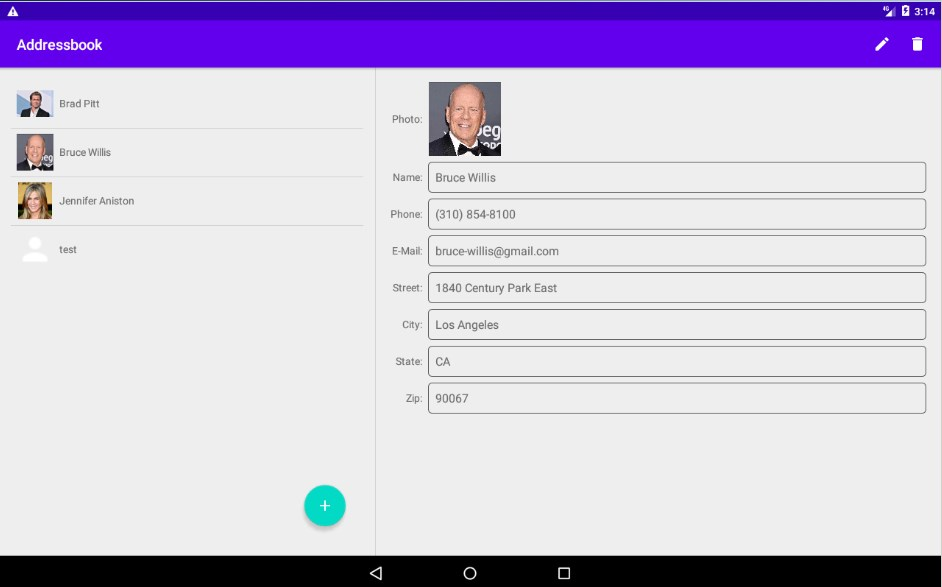
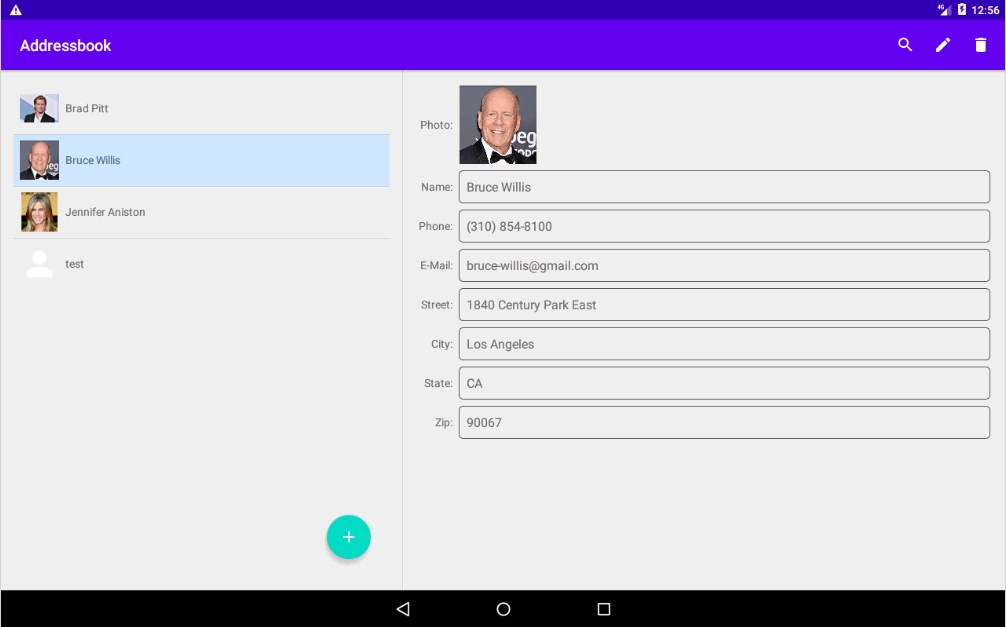
Поиск контакта на планшете.

Changed region(s): [[0.0, 0.0, 1.0, 0.7053], [0.0, 0.7973, 1.0, 1.0], [0.0616, 0.3986, 0.0924, 0.4293]]

diff --git a/app/src/main/java/ru/internetcloud/addressbook/ContactListActivity.java b/app/src/main/java/ru/internetcloud/addressbook/ContactListActivity.java
@@ -72,10 +72,10 @@ public class ContactListActivity extends TemplateFragmentActivity
     public void onQueryChanged() {
         FragmentManager fragmentManager = getSupportFragmentManager();
         // уберу текщий фрагмент:
-        ContactFragment contactFragment = (ContactFragment) fragmentManager.findFragmentById(R.id.fragment_detail_container);
-        if (contactFragment != null) {
+        Fragment fragment = fragmentManager.findFragmentById(R.id.fragment_detail_container);
+        if (fragment != null) {
             fragmentManager.beginTransaction()
-                    .remove(contactFragment)
+                    .remove(fragment)
                     .commit();
         }
 
@@ -102,10 +102,10 @@ public class ContactListActivity extends TemplateFragmentActivity
             Toast.makeText(this, R.string.contact_not_deleted, Toast.LENGTH_SHORT).show();
         } else {
             FragmentManager fragmentManager = getSupportFragmentManager();
-            ContactFragment contactFragment = (ContactFragment) fragmentManager.findFragmentById(R.id.fragment_detail_container);
-            if (contactFragment != null) {
+            Fragment fragment = fragmentManager.findFragmentById(R.id.fragment_detail_container);
+            if (fragment != null) {
                 fragmentManager.beginTransaction()
-                        .remove(contactFragment)
+                        .remove(fragment)
                         .commit();
             }
 

diff --git a/app/src/main/java/ru/internetcloud/addressbook/ContactAddEditActivity.java b/app/src/main/java/ru/internetcloud/addressbook/ContactAddEditActivity.java
@@ -64,7 +64,7 @@ public class ContactAddEditActivity extends TemplateFragmentActivity
             Toast.makeText(this, R.string.contact_updated, Toast.LENGTH_SHORT).show();
 
             Intent data = new Intent();
-            data.putExtra(KEY_CONTACT_ID, contact.getId());
+            data.putExtra(KEY_CONTACT_ID, contact.getId()); // не понадобился, достаточно RESULT_OK и REQUEST_ADD_EDIT
             setResult(RESULT_OK, data);
 
             //Intent intent = ContactPagerActivity.newIntent(this, contact.getId(), query);

diff --git a/app/src/main/java/ru/internetcloud/addressbook/ContactAddEditFragment.java b/app/src/main/java/ru/internetcloud/addressbook/ContactAddEditFragment.java
@@ -105,7 +105,7 @@ public class ContactAddEditFragment extends Fragment implements ContentManager.P
             try {
                 FileLab.copy(contactPhotoFile, tempPhotoFile);
             } catch (Exception ex) {
-                String msg = "Photo was not loaded from  due to an error : " + ex.getMessage();
+                String msg = getResources().getString(R.string.error_photo_not_loaded) + ex.getMessage();
                 Log.i(TAG, msg);
             }
         }

diff --git a/app/src/main/java/ru/internetcloud/addressbook/database/ContactCursorWrapper.java b/app/src/main/java/ru/internetcloud/addressbook/database/ContactCursorWrapper.java
@@ -2,8 +2,6 @@ package ru.internetcloud.addressbook.database;
 
 import android.database.Cursor;
 import android.database.CursorWrapper;
-
-import ru.internetcloud.addressbook.database.DatabaseDescription;
 import ru.internetcloud.addressbook.model.Contact;
 
 public class ContactCursorWrapper extends CursorWrapper {

diff --git a/README.md b/README.md
@@ -45,3 +45,8 @@
 
 рис.7 Редактирование контакта на планшете.
 
+----
+
+![alt text](screenshots/addressbook8.jpg "рис.8 Поиск контакта на планшете.")
+
+рис.8 Поиск контакта на планшете.
